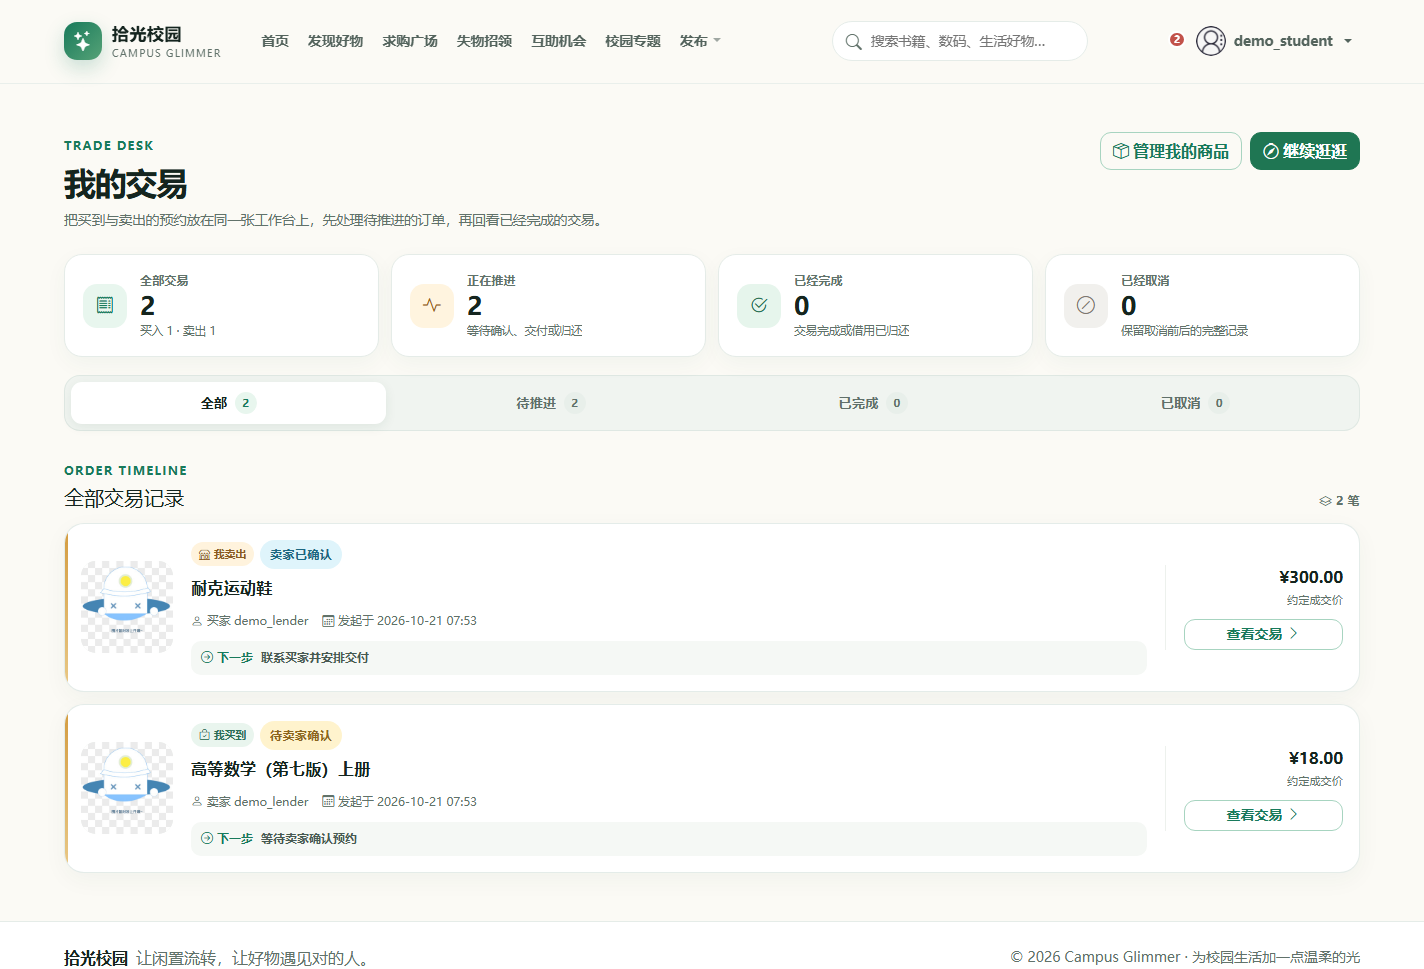
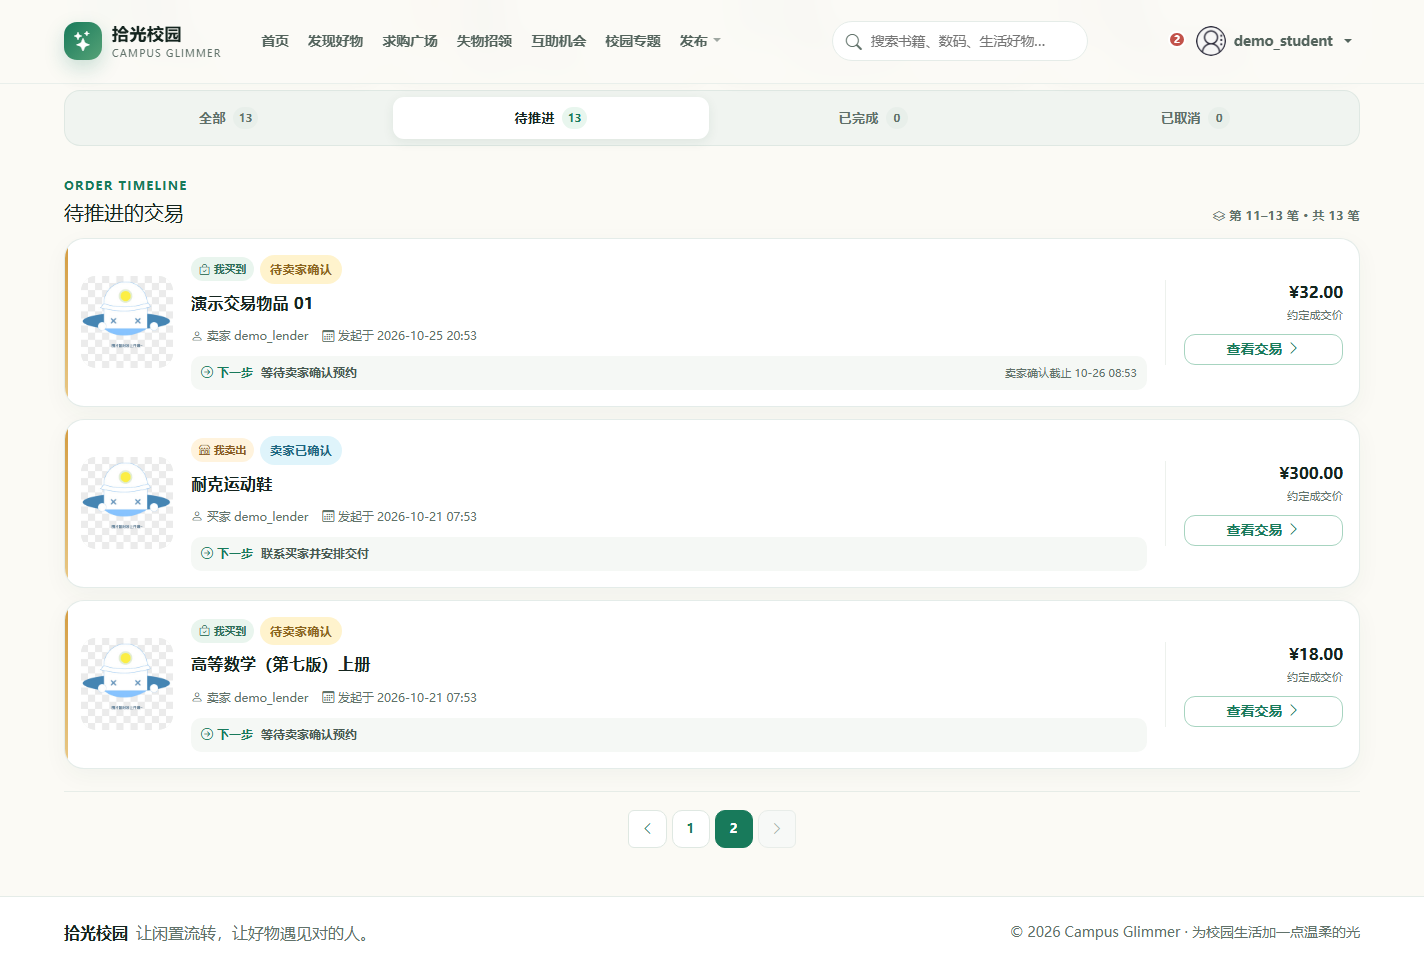
docs: 更新我的交易分页预览

diff --git a/listings/README.md b/listings/README.md
@@ -62,10 +62,10 @@ flowchart LR
 <p align="center"><strong>我的商品 · 卖家工作台</strong><br /><sub>生命周期诊断、专题与续期批量工具、状态页签和逐件操作集中管理 · 本地演示数据</sub></p>
 
 <p align="center">
-  <a href="../docs/screenshots/my-orders.png"><img src="../docs/screenshots/my-orders.png" alt="我的交易工作台，展示买入卖出计数、状态筛选、对方身份、下一步动作和交易金额" width="100%" /></a>
+  <a href="../docs/screenshots/my-orders.png"><img src="../docs/screenshots/my-orders.png" alt="我的交易工作台，展示买入卖出计数、状态筛选、第二页订单、结果区间和分页控件" width="100%" /></a>
 </p>
 
-<p align="center"><strong>我的交易 · 买卖总览</strong><br /><sub>同一用户作为买家与卖家的记录汇总在一处，按推进阶段筛选并明确下一步动作 · 本地演示数据</sub></p>
+<p align="center"><strong>我的交易 · 买卖总览</strong><br /><sub>买卖记录按阶段筛选，结果每页 10 笔且保留当前筛选，全量统计不受分页影响 · 本地演示数据</sub></p>
 
 <p align="center">
   <a href="../docs/screenshots/operations.png"><img src="../docs/screenshots/operations.png" alt="运营数据概览，展示供给、搜索、预约、互助与看板构建耗时" width="100%" /></a>
@@ -101,7 +101,7 @@ flowchart LR
 | `/listings/lost-found/` | 失物招领 |
 | `/listings/item/<item_id>/` | 商品详情与交易入口 |
 | `/listings/my_items/` | 我的商品与卖家工作台 |
-| `/listings/orders/` | 我的交易工作台，汇总买入与卖出订单 |
+| `/listings/orders/` | 我的交易工作台，汇总买卖订单，支持阶段筛选与分页 |
 | `/listings/notifications/` | 通知中心 |
 | `/listings/notifications/activity/` | 通知与私信汇合的站内动态 |
 | `/listings/operations/` | 运营看板，仅管理员可用 |

diff --git a/docs/screenshots/README.md b/docs/screenshots/README.md
@@ -76,8 +76,8 @@
 </tr>
 <tr>
 <td width="100%" valign="top">
-<a href="my-orders.png"><img src="my-orders.png" alt="我的交易工作台，展示买入卖出计数、状态筛选、对方身份、下一步动作和交易金额" width="100%" /></a>
-<p align="center"><strong>我的交易 · 买卖总览</strong><br /><sub>全部、待推进、已完成与已取消分栏，身份、下一步动作和截止时间集中呈现 · 本地演示数据</sub></p>
+<a href="my-orders.png"><img src="my-orders.png" alt="我的交易工作台，展示买入卖出计数、状态筛选、第二页订单、结果区间和分页控件" width="100%" /></a>
+<p align="center"><strong>我的交易 · 买卖总览</strong><br /><sub>全部、待推进、已完成与已取消分栏，结果每页 10 笔并保留筛选 · 本地演示数据</sub></p>
 </td>
 </tr>
 <tr>
@@ -128,7 +128,7 @@
 | [`moderation-queue.png`](moderation-queue.png) | `1424 × 969` | 内容审核值班台；四项待办、三级复核时限、组合筛选和审核记录 |
 | [`operations.png`](operations.png) | `1424 × 969` | 运营看板；管理员指标、告警和构建耗时 |
 | [`my-items.png`](my-items.png) | `1424 × 969` | 我的商品；生命周期诊断、批量专题与续期、状态页签和商品操作 |
-| [`my-orders.png`](my-orders.png) | `1424 × 969` | 我的交易；买卖计数、状态筛选、对方身份、下一步动作和金额 |
+| [`my-orders.png`](my-orders.png) | `1424 × 969` | 我的交易；买卖计数、状态筛选、结果区间、第二页订单与分页控件 |
 
 ## 🔄 更新截图时
 

diff --git a/README.md b/README.md
@@ -67,10 +67,10 @@
 <p align="center"><strong>我的商品 · 卖家工作台</strong><br /><sub>生命周期诊断、专题与续期批量工具、状态页签和逐件操作集中管理 · 本地演示数据</sub></p>
 
 <p align="center">
-  <a href="docs/screenshots/my-orders.png"><img src="docs/screenshots/my-orders.png" alt="我的交易工作台，展示买入卖出计数、状态筛选、对方身份、下一步动作和交易金额" width="100%" /></a>
+  <a href="docs/screenshots/my-orders.png"><img src="docs/screenshots/my-orders.png" alt="我的交易工作台，展示买入卖出计数、状态筛选、第二页订单、结果区间和分页控件" width="100%" /></a>
 </p>
 
-<p align="center"><strong>我的交易 · 买入与卖出总览</strong><br /><sub>待推进、已完成与已取消分栏，身份、下一步动作和交易金额在同一张卡片内可读 · 本地演示数据</sub></p>
+<p align="center"><strong>我的交易 · 买入与卖出总览</strong><br /><sub>待推进、已完成与已取消分栏；统计按全量订单计算，结果每页 10 笔并保留当前筛选 · 本地演示数据</sub></p>
 
 <p align="center">
   <a href="docs/screenshots/order-detail.png"><img src="docs/screenshots/order-detail.png" alt="订单详情交易工作台，展示订单状态、四步交易进度、下一步操作、交付安排和状态记录" width="100%" /></a>

diff --git a/docs/roadmap.md b/docs/roadmap.md
@@ -328,7 +328,7 @@
 
 - **体验完善**：优化移动端布局、无障碍、校园配置和运营工具；商品图已接入上传体积治理、480px 列表缩略图、960px 预览、响应式候选、展示宽高、懒加载与历史回填，后续可继续评估 CDN 和更多分发策略。
   - 订单详情已统一为交易工作台：使用语义化四步进度，按“订单状态 → 下一步动作 → 交付安排 → 支持与记录”组织桌面双栏和移动端单栏，并补齐键盘焦点与减少动画适配。
-  - 我的交易页已从逐行链接升级为买入与卖出总览：全部、待推进、已完成、已取消可筛，交易卡直接呈现当前身份、对方、下一步动作、截止时间和金额，并保持移动端单列无横向溢出。
+  - 我的交易页已从逐行链接升级为买入与卖出总览：全部、待推进、已完成、已取消可筛，交易卡直接呈现当前身份、对方、下一步动作、截止时间和金额；结果按每页 10 笔分页并保留筛选，统计仍按全量订单聚合，移动端单列与分页条均无横向溢出。
 
 </details>
 

diff --git a/docs/README.md b/docs/README.md
@@ -131,6 +131,8 @@
 
 出售、免费赠送和限期借用会在预约之后进入不同状态分支；求购匹配和失物招领是两条并行支线，完整流程图与边缘情况见[功能手册](feature-handbook.md)。
 
+**我的交易**把买家与卖家的记录汇总在同一视图，支持全部、待推进、已完成和已取消筛选；当前结果每页 10 笔，切换页码时保留筛选，顶部分组计数始终按全量订单计算。
+
 ## 运营数据闭环
 
 运营模块遵循一条可解释的闭环：
